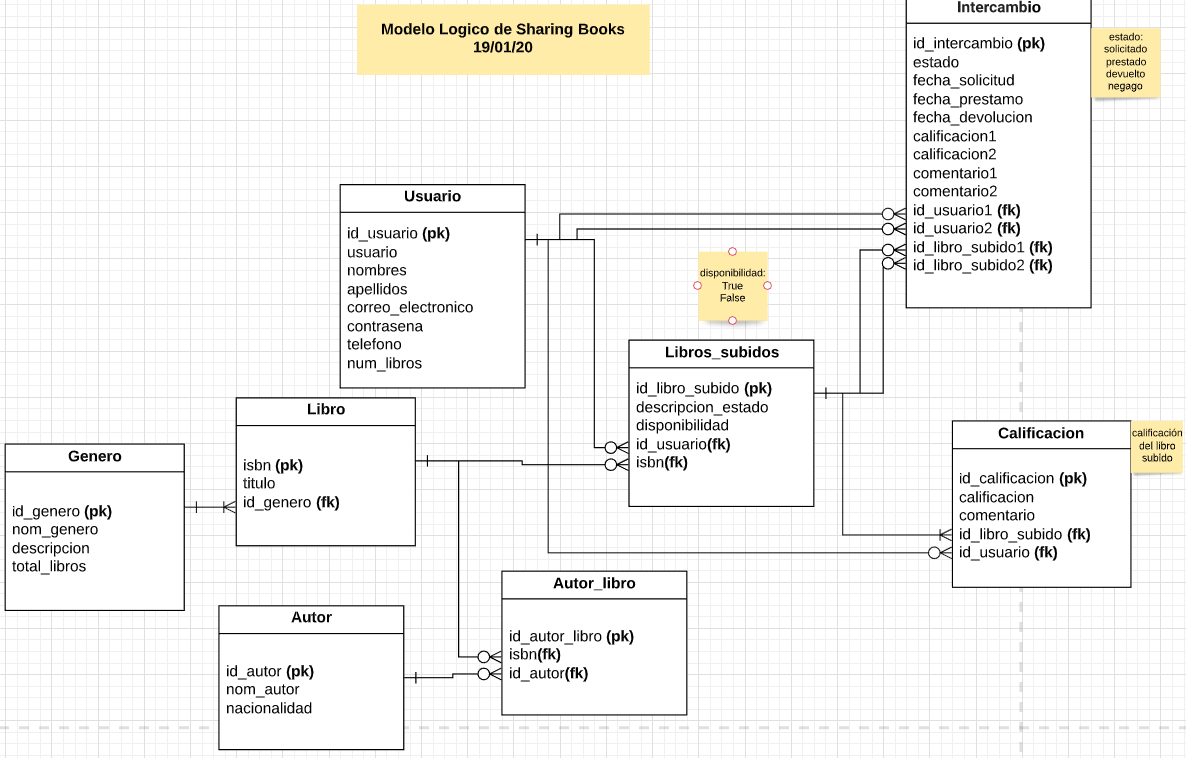
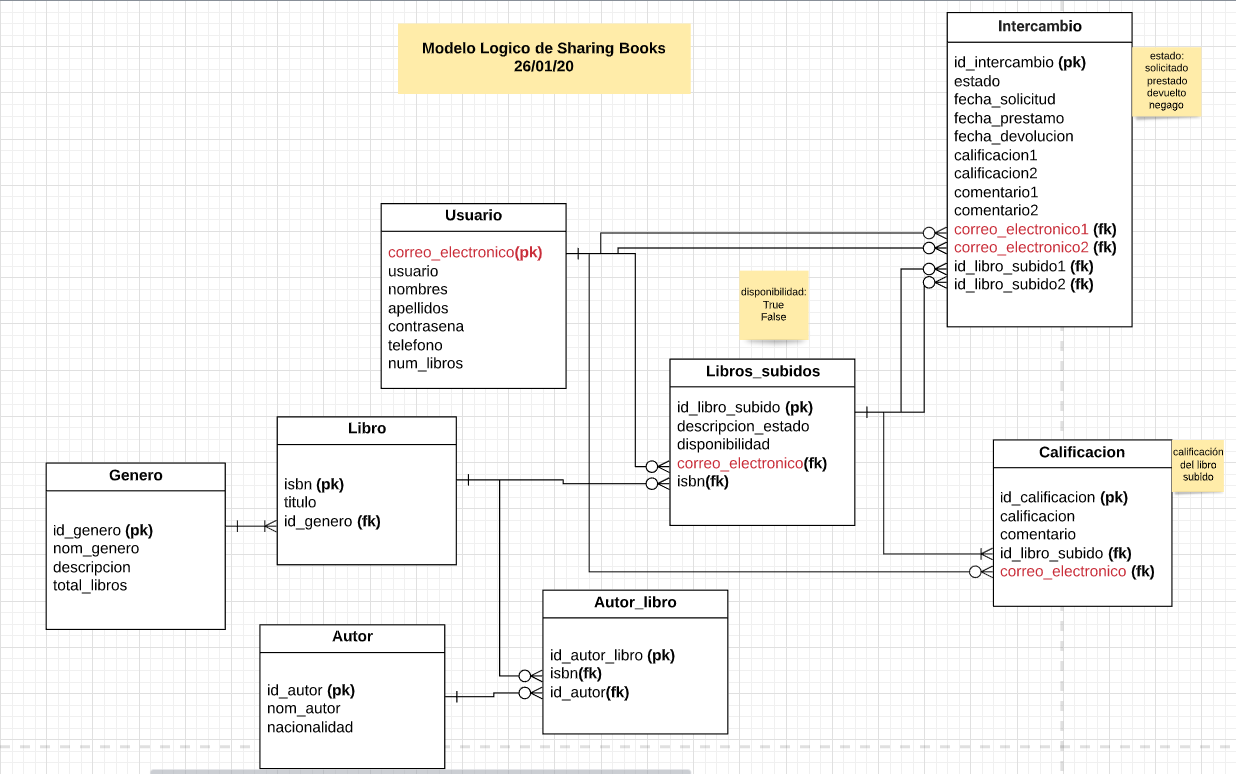
Cambio pk en Usuario

diff --git a/ProyectoSharing/models.py b/ProyectoSharing/models.py
@@ -14,12 +14,12 @@ class Genero(models.Model):
     
     
 class Usuario(models.Model):
-    id_usuario = models.AutoField(primary_key=True)
+    #id_usuario = models.AutoField(primary_key=True)
+    correo_electronico = models.CharField(primary_key=True, max_length=30)
     usuario = models.CharField(max_length=30)
     nombres = models.CharField(max_length=30)
-    apellidos = models.CharField(max_length=30)
-    correo_electronico = models.EmailField()
-    contrasena = models.CharField(max_length=64)  #hash
+    apellidos = models.CharField(max_length=30)    
+    contrasena = models.CharField(max_length=128)  #hash
     telefono = models.CharField(max_length=10)
     num_libros = models.IntegerField(default=0)
     def __str__(self):
@@ -38,7 +38,7 @@ class Libros_subidos(models.Model):
     id_libro_subido = models.AutoField(primary_key=True)
     descripcion_estado = models.CharField(max_length=500)
     disponibilidad = models.BooleanField(default=True)
-    id_usuario = models.ForeignKey('Usuario', on_delete=models.CASCADE)
+    correo_electronico = models.ForeignKey('Usuario', on_delete=models.CASCADE)
     isbn = models.ForeignKey('Libro', on_delete=models.CASCADE)
     
 
@@ -86,8 +86,8 @@ class Intercambio(models.Model):
     calificacion2 = models.FloatField(blank=True)
     comentario1 = models.CharField(max_length=500, blank=True)
     comentario2 = models.CharField(max_length=500, blank=True)
-    id_usuario1 = models.ForeignKey(Usuario, on_delete=models.CASCADE, related_name="id_usuario1")
-    id_usuario2 = models.ForeignKey(Usuario, on_delete=models.CASCADE, related_name="id_usuario2")
+    correo_electronico1 = models.ForeignKey(Usuario, on_delete=models.CASCADE, related_name="correo_electronico1")
+    correo_electronico2 = models.ForeignKey(Usuario, on_delete=models.CASCADE, related_name="correo_electronico2")
     id_libro_subido1 = models.ForeignKey('Libros_subidos', on_delete=models.CASCADE, related_name="id_libro_subido1", blank=True)
     id_libro_subido2 = models.ForeignKey('Libros_subidos', on_delete=models.CASCADE, related_name="id_libro_subido2")
     def __str__(self):
@@ -102,9 +102,9 @@ class Calificacion(models.Model):
     calificacion = models.FloatField()
     comentario = models.CharField(max_length=500)
     id_libro_subido = models.ForeignKey('Libros_subidos', on_delete=models.CASCADE)
-    id_usuario = models.ForeignKey('Usuario', on_delete=models.CASCADE)
+    correo_electronico = models.ForeignKey('Usuario', on_delete=models.CASCADE)
     class Meta:
         verbose_name = "Calificación"
         verbose_name_plural = "Calificaciones"
     def __str__(self):
-        return self.id_usuario + "(" + self.id_libro + ": " + self.calificacion + ")"
+        return self.correo_electronico + "(" + self.id_libro + ": " + self.calificacion + ")"

diff --git a/ProyectoSharing/migrations/0005_auto_20200125_1235.py b/ProyectoSharing/migrations/0005_auto_20200125_1235.py
@@ -1,0 +1,40 @@
+# Generated by Django 2.2 on 2020-01-25 17:35
+
+from django.db import migrations, models
+import django.db.models.deletion
+import django.utils.timezone
+
+
+class Migration(migrations.Migration):
+
+    dependencies = [
+        ('ProyectoSharing', '0004_auto_20200125_1159'),
+    ]
+
+    operations = [
+        migrations.RenameField(
+            model_name='libros_subidos',
+            old_name='id_usuario',
+            new_name='correo_electronico',
+        ),
+        migrations.RemoveField(
+            model_name='intercambio',
+            name='id_usuario1',
+        ),
+        migrations.RemoveField(
+            model_name='intercambio',
+            name='id_usuario2',
+        ),
+        migrations.AddField(
+            model_name='intercambio',
+            name='correo_electronico1',
+            field=models.ForeignKey(default=django.utils.timezone.now, on_delete=django.db.models.deletion.CASCADE, related_name='correo_electronico1', to='ProyectoSharing.Usuario'),
+            preserve_default=False,
+        ),
+        migrations.AddField(
+            model_name='intercambio',
+            name='correo_electronico2',
+            field=models.ForeignKey(default=django.utils.timezone.now, on_delete=django.db.models.deletion.CASCADE, related_name='correo_electronico2', to='ProyectoSharing.Usuario'),
+            preserve_default=False,
+        ),
+    ]

diff --git a/ProyectoSharing/migrations/0004_auto_20200125_1159.py b/ProyectoSharing/migrations/0004_auto_20200125_1159.py
@@ -1,0 +1,27 @@
+# Generated by Django 2.2 on 2020-01-25 16:59
+
+from django.db import migrations, models
+
+
+class Migration(migrations.Migration):
+
+    dependencies = [
+        ('ProyectoSharing', '0003_auto_20200119_0419'),
+    ]
+
+    operations = [
+        migrations.RemoveField(
+            model_name='usuario',
+            name='id_usuario',
+        ),
+        migrations.AlterField(
+            model_name='usuario',
+            name='contrasena',
+            field=models.CharField(max_length=128),
+        ),
+        migrations.AlterField(
+            model_name='usuario',
+            name='correo_electronico',
+            field=models.EmailField(max_length=254, primary_key=True, serialize=False),
+        ),
+    ]

diff --git a/ProyectoSharing/migrations/0007_auto_20200126_1202.py b/ProyectoSharing/migrations/0007_auto_20200126_1202.py
@@ -1,0 +1,18 @@
+# Generated by Django 2.2 on 2020-01-26 17:02
+
+from django.db import migrations, models
+
+
+class Migration(migrations.Migration):
+
+    dependencies = [
+        ('ProyectoSharing', '0006_auto_20200126_1106'),
+    ]
+
+    operations = [
+        migrations.AlterField(
+            model_name='usuario',
+            name='correo_electronico',
+            field=models.CharField(max_length=30, primary_key=True, serialize=False),
+        ),
+    ]

diff --git a/ProyectoSharing/migrations/0006_auto_20200126_1106.py b/ProyectoSharing/migrations/0006_auto_20200126_1106.py
@@ -1,0 +1,18 @@
+# Generated by Django 2.2 on 2020-01-26 16:06
+
+from django.db import migrations
+
+
+class Migration(migrations.Migration):
+
+    dependencies = [
+        ('ProyectoSharing', '0005_auto_20200125_1235'),
+    ]
+
+    operations = [
+        migrations.RenameField(
+            model_name='calificacion',
+            old_name='id_usuario',
+            new_name='correo_electronico',
+        ),
+    ]
